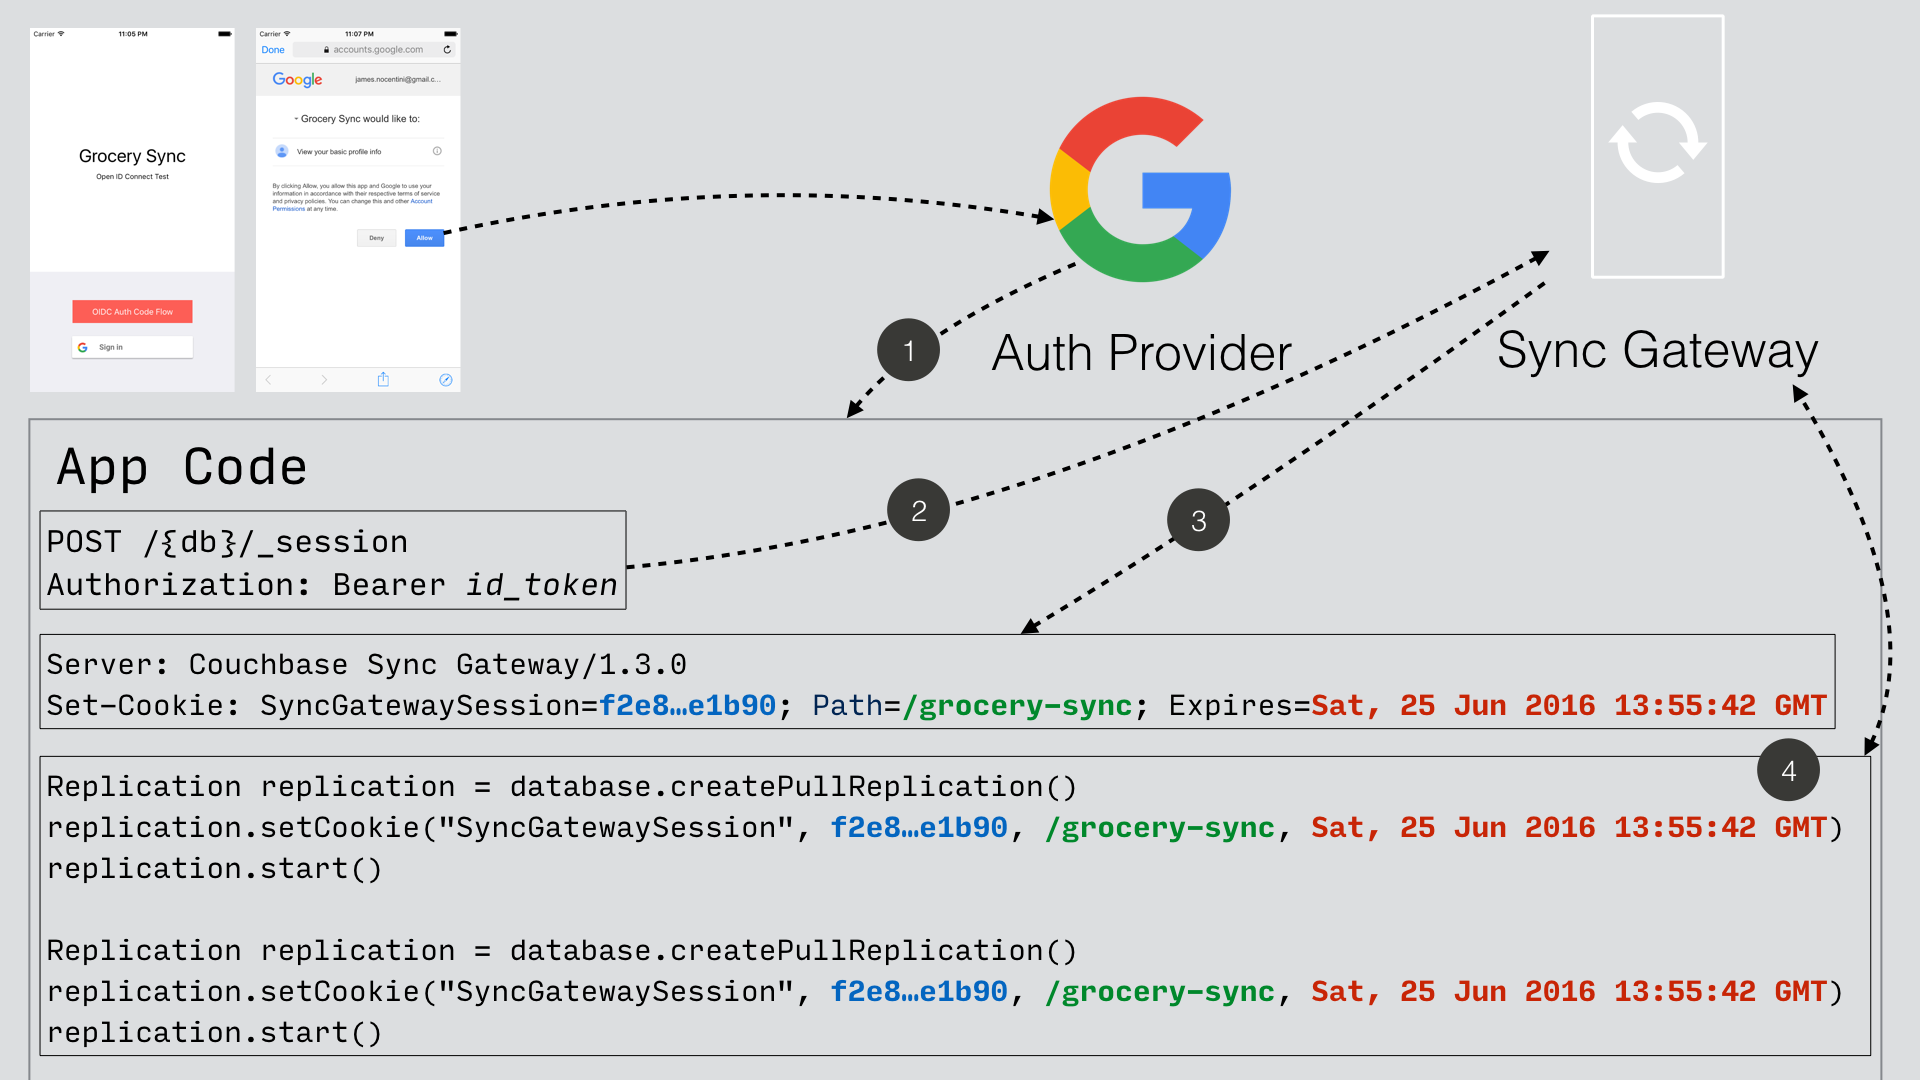
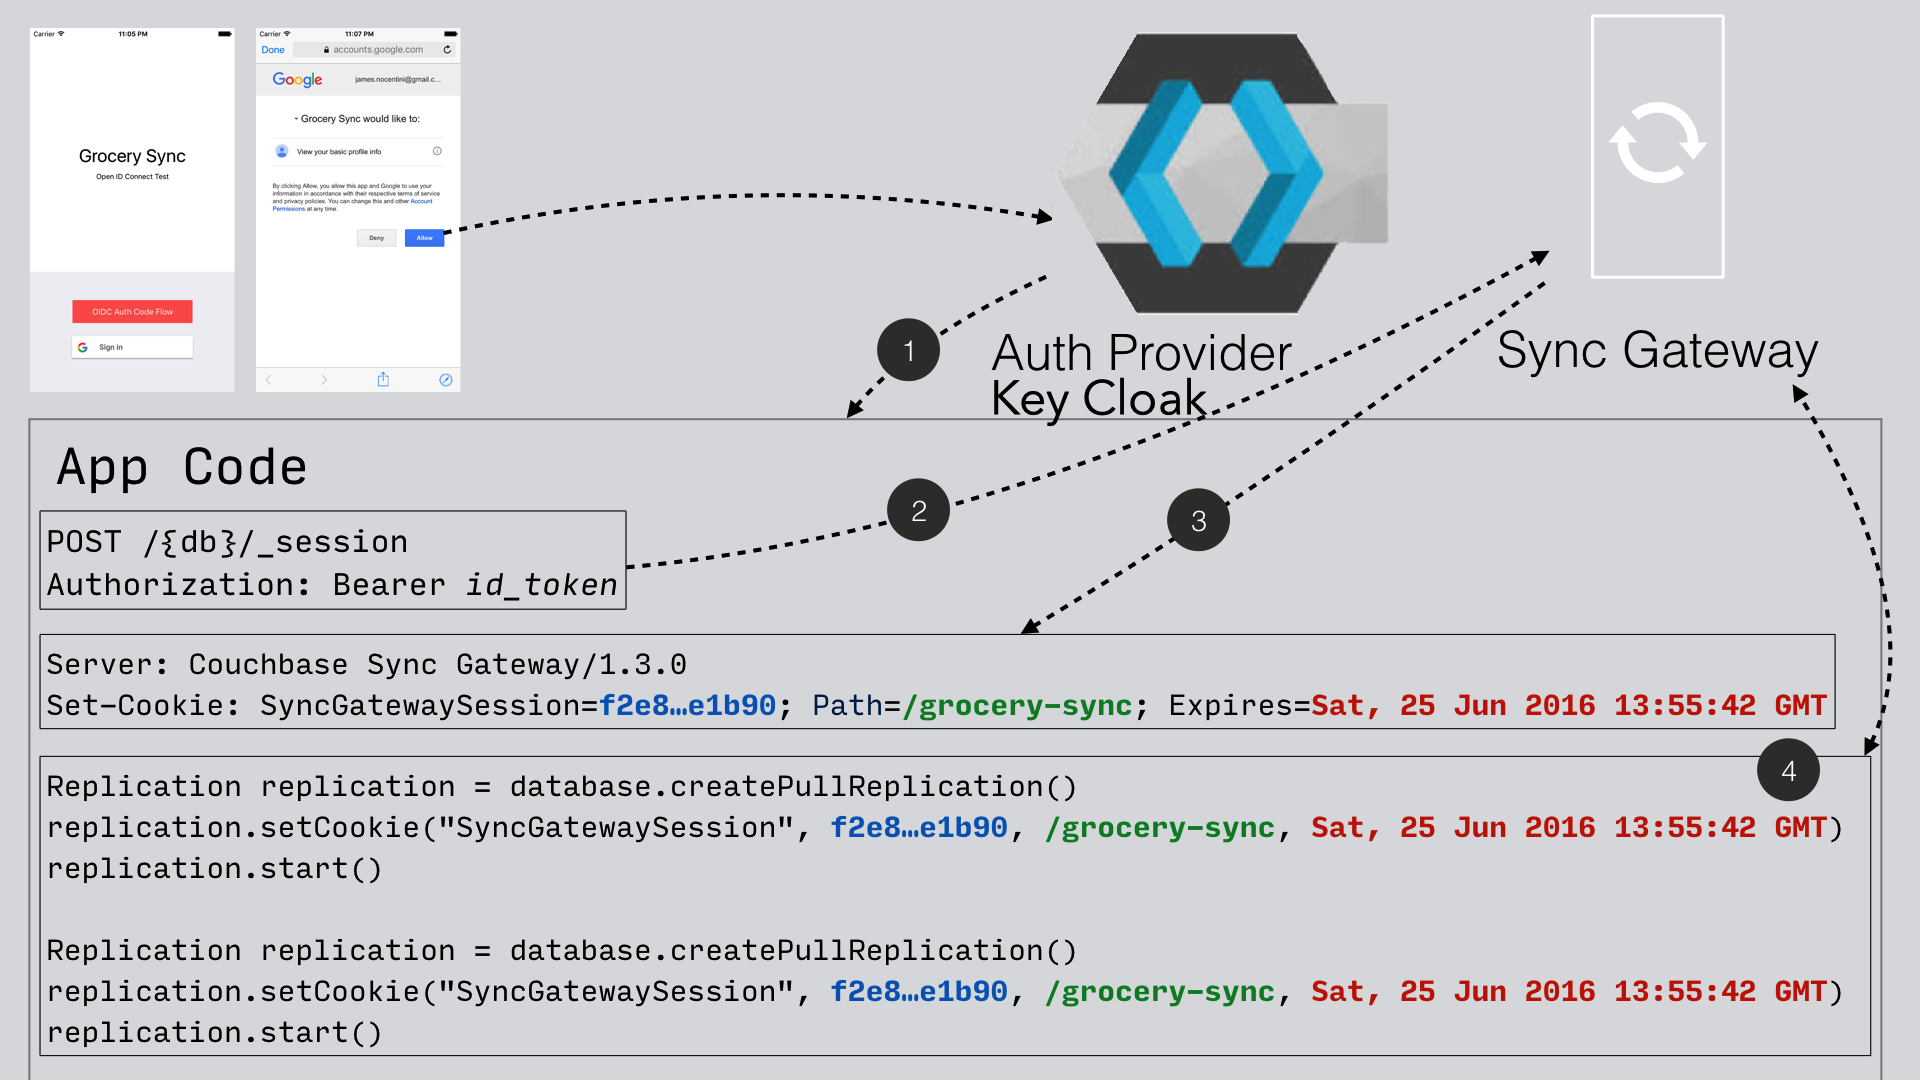
edit picture

Changed region(s): [[0.5312, 0.0306, 0.75, 0.3056], [0.5, 0.3361, 0.625, 0.3972], [0.0312, 0.275, 0.125, 0.3056]]

diff --git a/README.md b/README.md
@@ -12,5 +12,32 @@ The tutorial will achieve to deploy and make collaborate all those differents co
 
 
 
-Choice of the Identity Provider : KeyCloak is chosen (because it is well-known, Red hat supported, and of course because I like it 😄)
+Note : KeyCloak (KC) has been chosen as the Identity Provider to work with because it is well-known, Red hat supported, and of course because I like it 😄
+
+
+
+## Deployment
+Three docker containers wil be deployed :
+ - 1 one-node Couchbase Server 6.5 instance
+ - 1 Sync Gateway 2.7 instance
+ - 1 Keycloak instance
+
+ 1 same network workshop2 will be used across all the docker containers.
+
+### Deploying Keycloak (KC)
+
+<code>docker run -p "8080:8080" --name keycloak --network workshop2  -e KEYCLOAK_USER=admin -e KEYCLOAK_PASSWORD=password jboss/keycloak</code>
+
+<b>Note : to be improved as no volumes are mapped here (every configuration done is lost after stopping the container).</b>
+
+### Deploying Couchbase Server 6.5
+<code>docker run -d --name cb-server --network workshop2 -p 8091-8094:8091-8094 -p 11210:11210 couchbase/server-sandbox:6.5.0</code>
+
+### Deploying Sync Gateway 2.7
+<code>docker run -p 4984-4985:4984-4985 --network workshop2 --name sync-gateway -d -v `pwd`/sync-gateway-config-travelsample.json:/etc/sync_gateway/sync_gateway.json couchbase/sync-gateway:2.7.0-enterprise -adminInterface :4985 /etc/sync_gateway/sync_gateway.json</code>
+
+## Internal DNS modification for the Sync Gateway
+As we will see, at some point, the Sync Gateway needs to check the <code>id_token</code> against the issuer of the token (the Identity Manager KC). As a consequence, the FQDN of KC has to be found at SG level.
+To do so, the docker FQDN name "keycloak" has to be accessible from the Sync Gateway (which is not the case by default). To overcome this issue, we retrieve the local IP address of KC (using docker inspect) and hard-code it inside the /etc/hosts of the SyncGateway. Again, if the container is stopped, this configuration is lost and has to be re-done.
+
 
